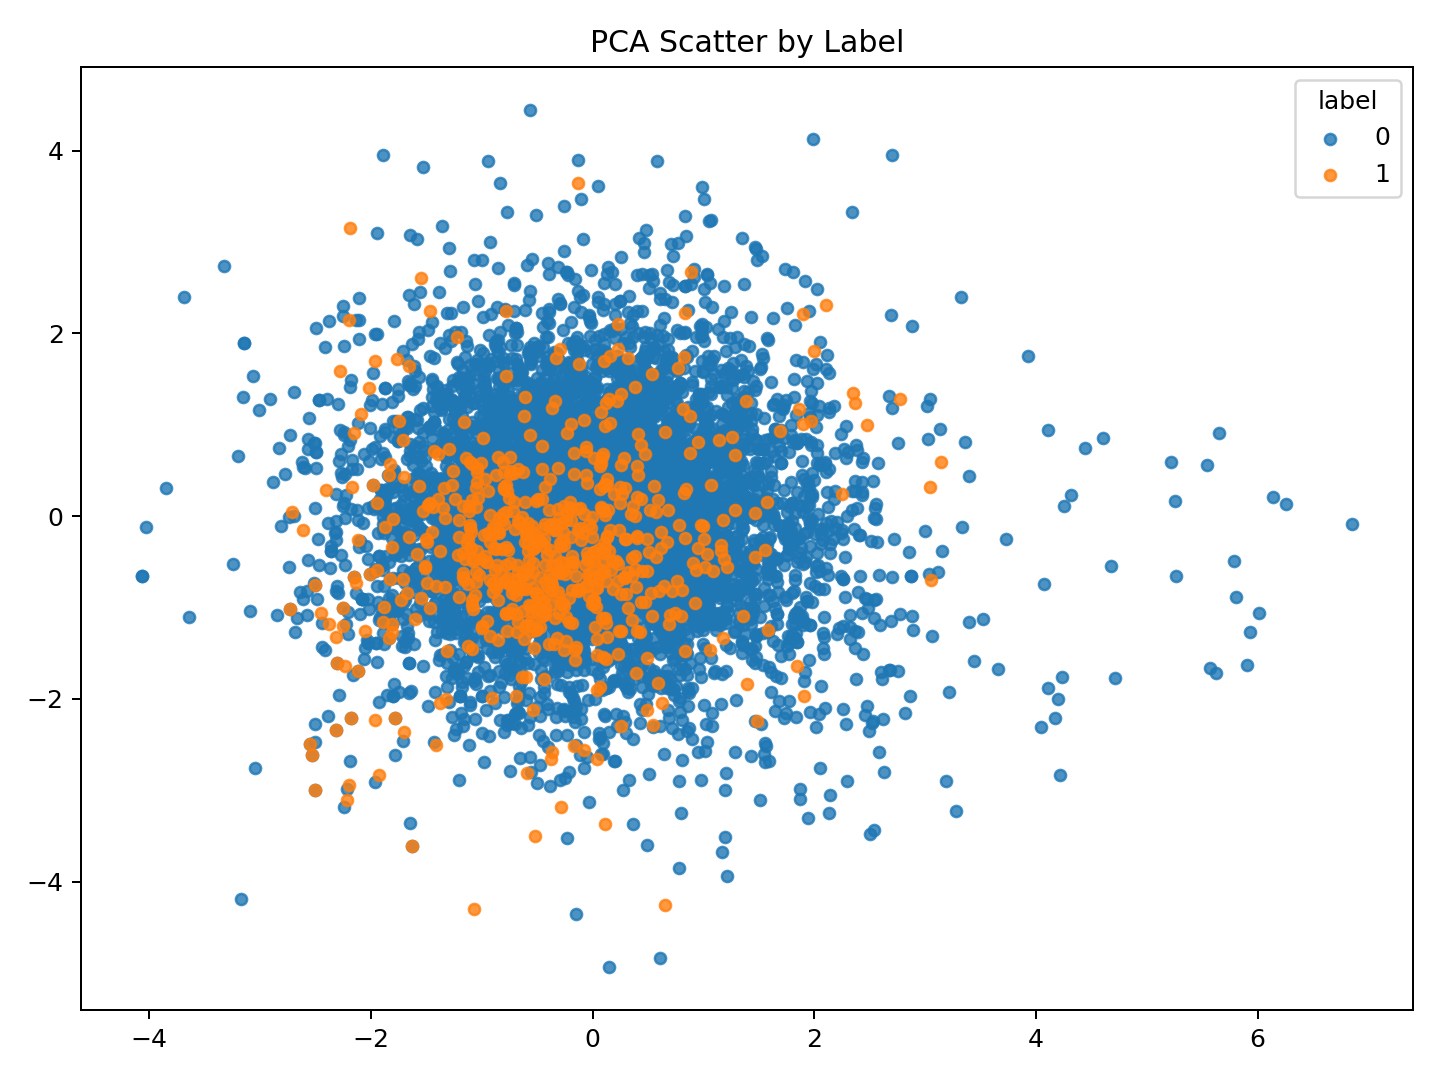
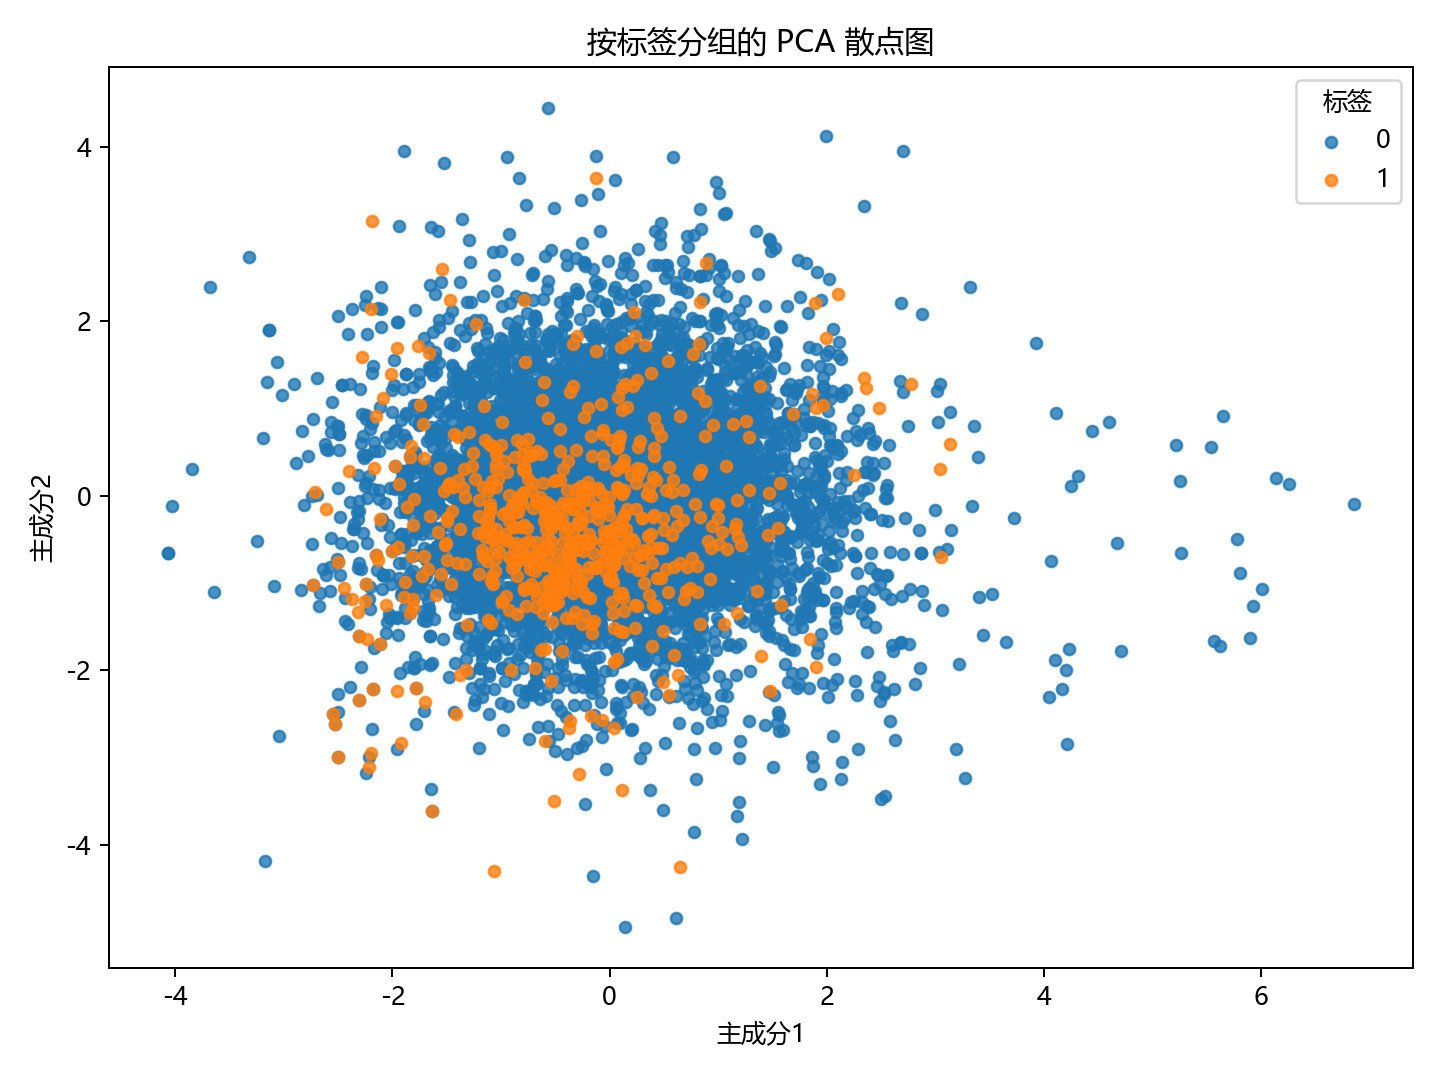
Update visualization outputs and keep root zip archives ignored.
Made-with: Cursor

diff --git a/outputs/final_submission/code/src/visualize.py b/outputs/final_submission/code/src/visualize.py
@@ -7,8 +7,20 @@ from src.config import PLOTS_DIR
 from src.data_prep import PreparedData
 
 
+def _set_chinese_font() -> None:
+    plt.rcParams["font.sans-serif"] = [
+        "Microsoft YaHei",
+        "SimHei",
+        "Noto Sans CJK SC",
+        "Arial Unicode MS",
+        "DejaVu Sans",
+    ]
+    plt.rcParams["axes.unicode_minus"] = False
+
+
 def _ensure_plot_dir() -> None:
     PLOTS_DIR.mkdir(parents=True, exist_ok=True)
+    _set_chinese_font()
 
 
 def plot_pca_scatter(data: PreparedData) -> None:
@@ -20,8 +32,10 @@ def plot_pca_scatter(data: PreparedData) -> None:
     for label in sorted(plot_df["label"].unique()):
         sub = plot_df[plot_df["label"] == label]
         plt.scatter(sub["pc1"], sub["pc2"], s=20, label=str(label), alpha=0.8)
-    plt.legend(title="label")
-    plt.title("PCA Scatter by Label")
+    plt.xlabel("主成分1")
+    plt.ylabel("主成分2")
+    plt.legend(title="标签")
+    plt.title("按标签分组的 PCA 散点图")
     plt.tight_layout()
     plt.savefig(PLOTS_DIR / "pca_scatter.png", dpi=180)
     plt.close()
@@ -32,14 +46,18 @@ def plot_confusion_and_roc(data: PreparedData, best_classifier, y_test_encoded, 
     cm = confusion_matrix(y_test_encoded, y_pred_encoded)
     disp = ConfusionMatrixDisplay(confusion_matrix=cm)
     disp.plot(cmap="Blues")
-    plt.title("Confusion Matrix")
+    plt.xlabel("预测类别")
+    plt.ylabel("真实类别")
+    plt.title("混淆矩阵")
     plt.tight_layout()
     plt.savefig(PLOTS_DIR / "confusion_matrix.png", dpi=180)
     plt.close()
 
     if hasattr(best_classifier, "predict_proba") and len(set(y_test_encoded)) == 2:
         RocCurveDisplay.from_estimator(best_classifier, data.x_test, y_test_encoded)
-        plt.title("ROC Curve")
+        plt.xlabel("假阳性率")
+        plt.ylabel("真阳性率")
+        plt.title("ROC 曲线")
         plt.tight_layout()
         plt.savefig(PLOTS_DIR / "roc_curve.png", dpi=180)
         plt.close()
@@ -51,11 +69,20 @@ def plot_model_comparison(classification_metrics: pd.DataFrame) -> None:
     plot_df = classification_metrics[["model"] + metric_cols].melt(
         id_vars="model", value_vars=metric_cols, var_name="metric", value_name="value"
     )
+    metric_name_map = {
+        "accuracy": "准确率",
+        "f1": "F1 值",
+        "auc": "AUC",
+        "cv_mean_accuracy": "5折交叉验证准确率",
+    }
+    plot_df["metric"] = plot_df["metric"].map(metric_name_map).fillna(plot_df["metric"])
     plt.figure(figsize=(9, 6))
     pivot_df = plot_df.pivot(index="model", columns="metric", values="value")
     pivot_df.plot(kind="bar", ax=plt.gca())
     plt.ylim(0, 1.05)
-    plt.title("Model Performance Comparison")
+    plt.xlabel("模型")
+    plt.ylabel("指标值")
+    plt.title("模型性能对比")
     plt.tight_layout()
     plt.savefig(PLOTS_DIR / "model_comparison.png", dpi=180)
     plt.close()
@@ -68,9 +95,9 @@ def plot_age_scatter(y_true, y_pred) -> None:
     min_val = min(min(y_true), min(y_pred))
     max_val = max(max(y_true), max(y_pred))
     plt.plot([min_val, max_val], [min_val, max_val], linestyle="--")
-    plt.xlabel("True Age")
-    plt.ylabel("Predicted Age")
-    plt.title("Age Prediction Scatter")
+    plt.xlabel("真实年龄")
+    plt.ylabel("预测年龄")
+    plt.title("年龄预测散点图")
     plt.tight_layout()
     plt.savefig(PLOTS_DIR / "age_prediction_scatter.png", dpi=180)
     plt.close()

diff --git a/src/visualize.py b/src/visualize.py
@@ -7,8 +7,20 @@ from src.config import PLOTS_DIR
 from src.data_prep import PreparedData
 
 
+def _set_chinese_font() -> None:
+    plt.rcParams["font.sans-serif"] = [
+        "Microsoft YaHei",
+        "SimHei",
+        "Noto Sans CJK SC",
+        "Arial Unicode MS",
+        "DejaVu Sans",
+    ]
+    plt.rcParams["axes.unicode_minus"] = False
+
+
 def _ensure_plot_dir() -> None:
     PLOTS_DIR.mkdir(parents=True, exist_ok=True)
+    _set_chinese_font()
 
 
 def plot_pca_scatter(data: PreparedData) -> None:
@@ -20,8 +32,10 @@ def plot_pca_scatter(data: PreparedData) -> None:
     for label in sorted(plot_df["label"].unique()):
         sub = plot_df[plot_df["label"] == label]
         plt.scatter(sub["pc1"], sub["pc2"], s=20, label=str(label), alpha=0.8)
-    plt.legend(title="label")
-    plt.title("PCA Scatter by Label")
+    plt.xlabel("主成分1")
+    plt.ylabel("主成分2")
+    plt.legend(title="标签")
+    plt.title("按标签分组的 PCA 散点图")
     plt.tight_layout()
     plt.savefig(PLOTS_DIR / "pca_scatter.png", dpi=180)
     plt.close()
@@ -32,14 +46,18 @@ def plot_confusion_and_roc(data: PreparedData, best_classifier, y_test_encoded, 
     cm = confusion_matrix(y_test_encoded, y_pred_encoded)
     disp = ConfusionMatrixDisplay(confusion_matrix=cm)
     disp.plot(cmap="Blues")
-    plt.title("Confusion Matrix")
+    plt.xlabel("预测类别")
+    plt.ylabel("真实类别")
+    plt.title("混淆矩阵")
     plt.tight_layout()
     plt.savefig(PLOTS_DIR / "confusion_matrix.png", dpi=180)
     plt.close()
 
     if hasattr(best_classifier, "predict_proba") and len(set(y_test_encoded)) == 2:
         RocCurveDisplay.from_estimator(best_classifier, data.x_test, y_test_encoded)
-        plt.title("ROC Curve")
+        plt.xlabel("假阳性率")
+        plt.ylabel("真阳性率")
+        plt.title("ROC 曲线")
         plt.tight_layout()
         plt.savefig(PLOTS_DIR / "roc_curve.png", dpi=180)
         plt.close()
@@ -51,11 +69,20 @@ def plot_model_comparison(classification_metrics: pd.DataFrame) -> None:
     plot_df = classification_metrics[["model"] + metric_cols].melt(
         id_vars="model", value_vars=metric_cols, var_name="metric", value_name="value"
     )
+    metric_name_map = {
+        "accuracy": "准确率",
+        "f1": "F1 值",
+        "auc": "AUC",
+        "cv_mean_accuracy": "5折交叉验证准确率",
+    }
+    plot_df["metric"] = plot_df["metric"].map(metric_name_map).fillna(plot_df["metric"])
     plt.figure(figsize=(9, 6))
     pivot_df = plot_df.pivot(index="model", columns="metric", values="value")
     pivot_df.plot(kind="bar", ax=plt.gca())
     plt.ylim(0, 1.05)
-    plt.title("Model Performance Comparison")
+    plt.xlabel("模型")
+    plt.ylabel("指标值")
+    plt.title("模型性能对比")
     plt.tight_layout()
     plt.savefig(PLOTS_DIR / "model_comparison.png", dpi=180)
     plt.close()
@@ -68,9 +95,9 @@ def plot_age_scatter(y_true, y_pred) -> None:
     min_val = min(min(y_true), min(y_pred))
     max_val = max(max(y_true), max(y_pred))
     plt.plot([min_val, max_val], [min_val, max_val], linestyle="--")
-    plt.xlabel("True Age")
-    plt.ylabel("Predicted Age")
-    plt.title("Age Prediction Scatter")
+    plt.xlabel("真实年龄")
+    plt.ylabel("预测年龄")
+    plt.title("年龄预测散点图")
     plt.tight_layout()
     plt.savefig(PLOTS_DIR / "age_prediction_scatter.png", dpi=180)
     plt.close()
